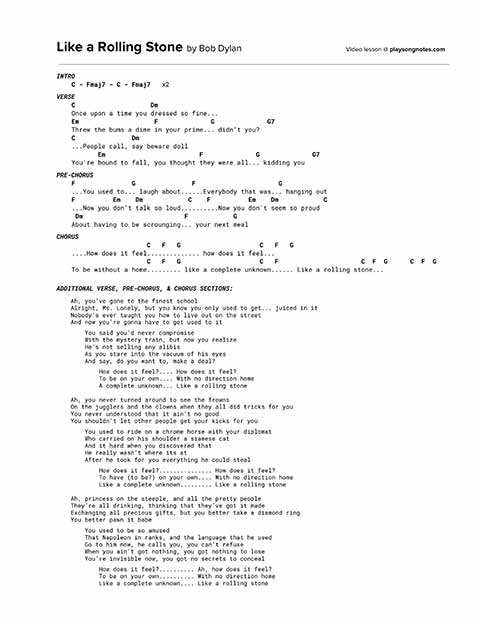
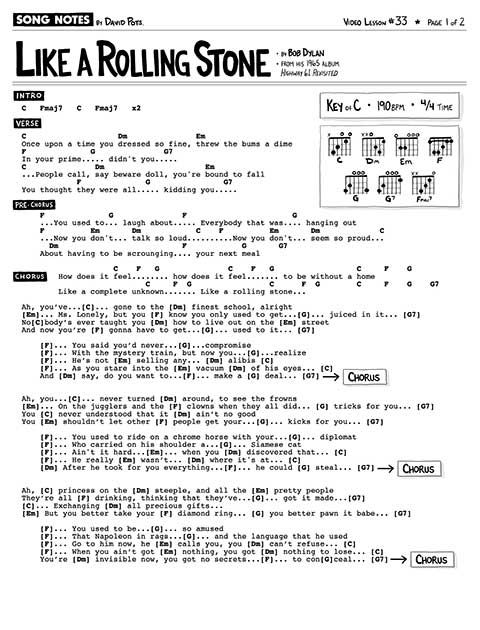
Adds some backlog

diff --git a/_lessons/33 [Bob Dylan] Like a Rolling Sone.md b/_lessons/33 [Bob Dylan] Like a Rolling Sone.md
@@ -11,8 +11,9 @@ tags: [Full Song Lesson, 1960s, Folk, Classic Rock, Key of C]
 yt_video_id: ovnhfQkUXkc
 redirect_from:
   - /songs/bob-dylan-like-a-rolling-sone/
-pdf_version: copyright
+pdf_version: musicnotes
 pdf_numpages: 2
+musicnotes_url: https://www.musicnotes.com/l/9jvMm
 patreon_lesson_available: true
 patreon_lesson_url: https://www.patreon.com/posts/25634912
 ---
@@ -27,165 +28,4 @@ patreon_lesson_url: https://www.patreon.com/posts/25634912
 
 ## Editor's notes
 
-This video is an acoustic guitar lesson for the classic rock song "Like a Rolling Stone" by Bob Dylan (1965, from his album "Highway 61 Revisited"). This video includes a playthrough, chords, tabs, and strumming patterns -- showing how to play this song in standard tuning on an acoustic guitar (without a capo). I created this tutorial for Songnotes, which is my personal music lesson web project (video and text-based lessons).
-
-## Chords with lyrics
-
-    INTRO
-        C - Fmaj7 - C - Fmaj7
-
-    VERSE
-        C                    Dm
-        Once upon a time you dressed so fine...
-        Em                    F              G
-        Threw the bums a dime in your prime... didn't you?
-        C               Dm
-        ...People call, say beware doll
-               Em                         F              G
-        You're bound to fall, you thought they were all... kidding you
-
-    PRE-CHORUS
-        F               G
-        ...You used to... laugh about
-        F                      G
-        ...Everybody that was... hanging out
-        F          Em    Dm            C
-        ...Now you don't talk so loud
-        F          Em    Dm            C
-        ...Now you don't seem so proud
-         Dm                           F            G
-        About having to be scrounging... your next meal
-
-    CHORUS
-                          C   F   G                      C   F   G
-        ....How does it feel.............. how does it feel...
-                          C   F   G                      C   F   G
-        To be without a home.......... like a complete unknown....
-                          C   F   G
-        Like a rolling stone...
-
-    ADDITIONAL VERSE, PRE-CHORUS, & CHORUS SECTIONS:
-
-        Ah, you’ve gone to the finest school
-        Alright, Ms. Lonely, but you know you only used to get... juiced in it
-        Nobody’s ever taught you how to live out on the street
-        And now you’re gonna have to get used to it
-
-            You said you’d never compromise
-            With the mystery train, but now you realize
-            He’s not selling any alibis
-            As you stare into the vacuum of his eyes
-            And say, do you want to, make a deal?
-
-                How does it feel?.... How does it feel?
-                To be on your own.... With no direction home
-                A complete unknown... Like a rolling stone
-
-        Ah, you never turned around to see the frowns
-        On the jugglers and the clowns when they all did tricks for you
-        You never understood that it ain’t no good
-        You shouldn’t let other people get your kicks for you
-
-            You used to ride on a chrome horse with your diplomat
-            Who carried on his shoulder a siamese cat
-            And it hard when you discovered that
-            He really wasn’t where its at
-            After he took for you everything he could steal
-
-                How does it feel?............... How does it feel?
-                To have (to be?) on your own.... With no direction home
-                Like a complete unknown......... Like a rolling stone
-
-        Ah, princess on the steeple, and all the pretty people
-        They’re all drinking, thinking that they’ve got it made
-        Exchanging all precious gifts, but you better take a diamond ring 
-        You better pawn it babe
-
-            You used to be so amused
-            That Napoleon in ranks, and the language that he used
-            Go to him now, he calls you, you can’t refuse
-            When you ain’t got nothing, you got nothing to lose
-            You’re invisible now, you got no secrets to conceal
-
-                How does it feel?.......... Ah, how does it feel?
-                To be on your own.......... With no direction home
-                Like a complete unknown.... Like a rolling stone
-
-## Chord progression cheat sheet
-
-VERSE
-
-    "Once upon a time you dressed so fine..."
-    C . . . Dm . . . Em . . . F . . .
-    G . . . G  . . . G  . . . G . . .
-
-    "People call, say beware doll..."
-    C . . . Dm . . . Em . . . F . . .
-    G . . . G  . . . G  . . . G . . .
-
-PRE-CHORUS
-
-    "You used to laugh about..."
-    F . . . F . . . G . . . G . . . x2
-
-    "Now you don't talk so loud..."
-    F . . . Em . . . Dm . . . C . . . x2
-
-    "About having to be scrounging..."
-    Dm . . . Dm . . . F . . . F . . .
-    G  . . . G  . . . G . . . G . . .
-
-CHORUS
-
-    "How does it feel..."
-    C . . . F . . . G . . . G . . .  x4
-
-## How to play the chords
-
-Here are the chords you'll need to play this song, as played in their standard voicings. For the intro, I'll use an Fmaj7 instead of a pure F-major chord... this sounds like more like Dylan, and is also easier to pull off with the pretty quick strumming. If you're having trouble with the F, you can play a simplified version by only playing the thinnest 4 strings OR the middle 4 strings (there's no strict need to play all 6 strings or bust).
-
-    E ––––0––––1––––0––––1––––3––––  –––1––––0–––
-    B ––––1––––3––––0––––1––––0––––  –––0––––1–––
-    G ––––0––––2––––0––––2––––0––––  –––0––––2–––
-    D ––––2––––0––––2––––3––––0––––  –––0––––3–––
-    A ––––3–––––––––2––––3––––2––––  –––2––––3–––
-    E ––––––––––––––0––––1––––3––––  –––3––––––––
-          C    Dm   Em   F    G         G7  Fmaj7   
-
-You can also use barre chords to play these same chords. I'm mainly showing this so you can get a sense of how the chord shapes look when they move up the fretboard (which is a handy thing to remember when learning other songs which use any of these same chords):
-
-    E –––––(3)–––––(5)–––––(7)–––––(8)––––(10)–––
-    B ––––––5–––––––6–––––––8––––––10––––––12––––
-    G ––––––5–––––––7–––––––9––––––10––––––12––––
-    D ––––––5–––––––7–––––––9––––––10––––––12––––
-    A ––––––3–––––––5–––––––7–––––––8––––––10––––
-    E –––––––––––––––––––––––––––––––––––––––––––
-            C       Dm      Em      F       G
-
-## Intro strumming
-
-Here's how I'll strum the intro of this song:
-
-    E –––0–––––––0–––0–0–––0––0––0––0––0–––
-    B –––1–––––––1–––1–1–––1––1––1––1––1–––
-    G –––0–––––––0–––0–0–––2––2––2––2––2–––
-    D –––2–––––––2–––2–2–––3––3––3––3––3–––
-    A –––3–––––––3–––3–3–––3––3––3––3––3–––
-    E –––––––––––––––––––––––––––––––––––––
-         C                 Fmaj7
-         1 e + a 2 e + a 3 e + a 4 e + a
-         d       d   d u   u d u d u d u
-
-For the rest of the song, I'll typically use a pattern like this.
-
-    1 e + a 2 e + a 3 e + a 4 e + a
-    d   d   d   d u d   d   d   d u
-    >       >       >       >      
-
-Which reads as:
-
-    DOWN  down  DOWN down up, DOWN  down  DOWN down up (etc)
-
-## Good luck!
-
-I hope this helps, and as always let me know if you have any questions.
+This video is an acoustic guitar lesson for the classic rock song "Like a Rolling Stone" by Bob Dylan (1965, from his album "Highway 61 Revisited"). This video includes a playthrough, chords, tabs, and strumming patterns -- showing how to play this song in standard tuning on an acoustic guitar (without a capo).

diff --git a/backlog.md b/backlog.md
@@ -18,6 +18,7 @@ permalink: /backlog/
 
 Here's the songs I've most recently re-listed for purchase at Musicnotes.com. Each arrangement is officially licensed & legal, and also uses my latest sheet music formatting.
 
+- Apr 19 - [Like a Rolling Stone](https://playsongnotes.com/lessons/33/)
 - Apr 19 - [Feeling Whitney](https://playsongnotes.com/lessons/91/)
 - Apr 16 - [Sweet Child O' Mine](https://playsongnotes.com/lessons/156/)
 - Apr 14 - [Danny's Song](https://playsongnotes.com/lessons/95/)
@@ -55,16 +56,15 @@ Here's the songs I've most recently re-listed for purchase at Musicnotes.com. Ea
 
 <h3>7+ requests:</h3>
 
-    Stairway to Heaven          XXXXXXXXXXXXXXXXXXXXXXXXXXXXXXXXXXXX
+    Stairway to Heaven          XXXXXXXXXXXXXXXXXXXXXXXXXXXXXXXXXXXXX
 
     Always Remember Us This Way XXXXXXXXXXX
     American Girl               XXXXXXXX
     California Dreaming         XXXXXXXXX
     Creep                       XXXXXXXXXX
     Game of Thrones (theme)     XXXXXXXXXX
-    Guantanamara                XXXXXXX
+    Guantanamara                XXXXXXXX
     Let Him Roll                XXXXXXXX
-    Like a Rolling Stone        XXXXXXXXXXXX
     Maybe It's Time •           XXXXXXX
     My Fav. Picture of You      XXXXXXXX
     My Old Kentucky Home        XXXXXXXX
